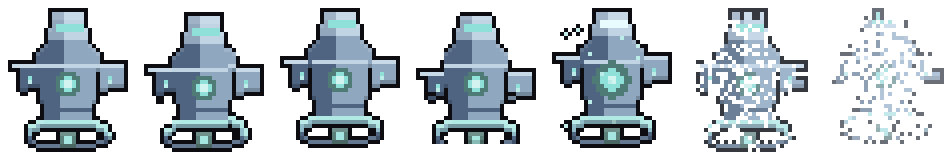
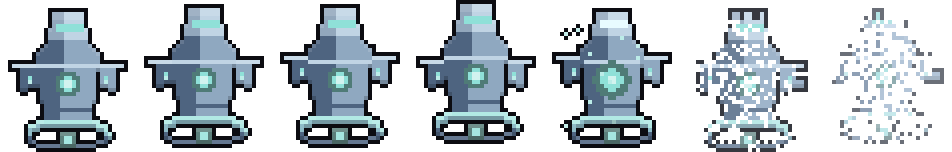
시트 여섯 다시 손질
- foreman: 안테나 길이가 칸마다 달랐다(1줄 · 2줄) — 모든 칸 2줄로.
- lantern: 걷기 둘째 칸 꼬리가 한 줄 짧았다 — 서 있는 칸을 한 칸 옮긴 것으로.
- ruin_guard: 공격 칸 방패가 잘리고 팔이 토막이었다 — 서 있는 칸에서 방패를 2칸 내밀고
  1줄 드는 밀치기로, 드러난 몸 가장자리는 테두리로 닫는다. 칸 34→36.
- minerghost: 곡괭이가 떠 있었다 — 자루를 쥔 손(공격 칸은 치켜든 자루 윗부분).
- shadoweye: 1칸 선을 덧대어 오히려 끊겨 보였다 — 원본에서 촉수마다 기울기를 따라 한 줄에
  1칸씩 가늘어지고 테두리를 지킨 끝을 5줄 이어 그림. 칸 28→33.
- sky_sentry: 서 있는 칸 받침이 칸 바닥이라 내려가는 칸마다 잘렸다 — 흔들림을 위로만.
  오른팔은 왼팔의 좌우 대칭(밝은 쪽 색)으로 다시 만들어 두 팔 모양을 맞춘다.

Claude-Session: https://claude.ai/code/session_015bTXkb4q3SzK7wZ8JdbtYP

diff --git a/game/assets/sprites-manifest.js b/game/assets/sprites-manifest.js
@@ -819,10 +819,10 @@ window.SPRITE_MANIFEST = {
       "shadoweye": {
         "file": "char/shadoweye.png",
         "frameW": 34,
-        "frameH": 34,
+        "frameH": 33,
         "count": 7,
-        "foot": 0.25,
-        "side": 0
+        "foot": -0.75,
+        "side": -1
       },
       "frostling": {
         "file": "char/frostling.png",
@@ -874,11 +874,11 @@ window.SPRITE_MANIFEST = {
       },
       "ruin_guard": {
         "file": "char/ruin_guard.png",
-        "frameW": 34,
+        "frameW": 36,
         "frameH": 48,
         "count": 7,
         "foot": 0.25,
-        "side": 0
+        "side": -1
       },
       "lantern": {
         "file": "char/lantern.png",
